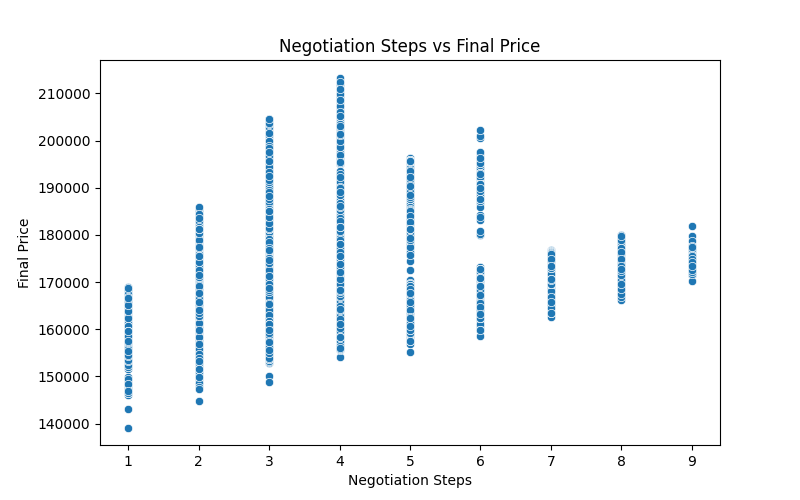
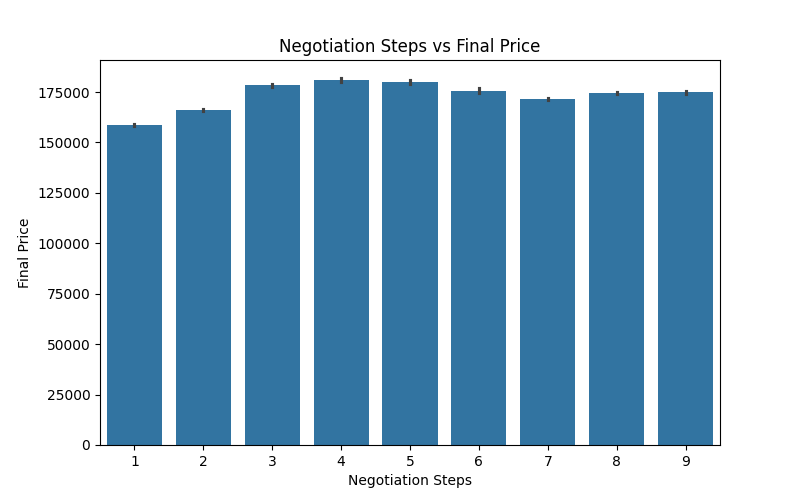
fix: modified the output graphs to make it more explainable

diff --git a/model/result-parser/file-parser.py b/model/result-parser/file-parser.py
@@ -30,7 +30,7 @@ plt.close()
 
 #Negotiation Steps vs. Final Price
 plt.figure(figsize=(8, 5))
-sns.scatterplot(x=df["negotiation_steps"], y=df["final_price"])
+sns.barplot(x=df["negotiation_steps"], y=df["final_price"])
 plt.xlabel("Negotiation Steps")
 plt.ylabel("Final Price")
 plt.title("Negotiation Steps vs Final Price")
@@ -39,7 +39,7 @@ plt.close()
 
 # Initial Bids vs. Final Prices
 plt.figure(figsize=(8, 5))
-sns.scatterplot(x=df["initial_bid"], y=df["final_price"])
+sns.lineplot(x=df["initial_bid"], y=df["final_price"])
 plt.xlabel("Initial Bid")
 plt.ylabel("Final Price")
 plt.title("Initial Bids vs Final Prices")
